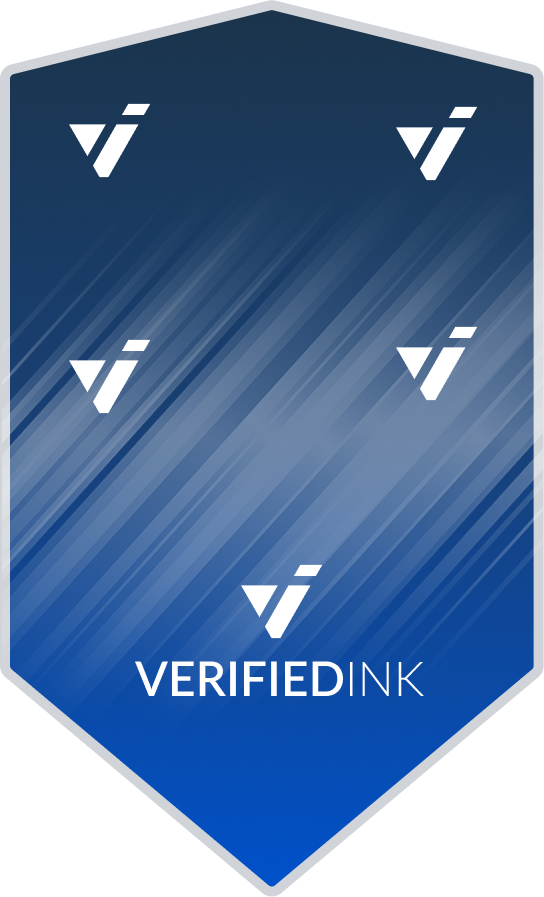
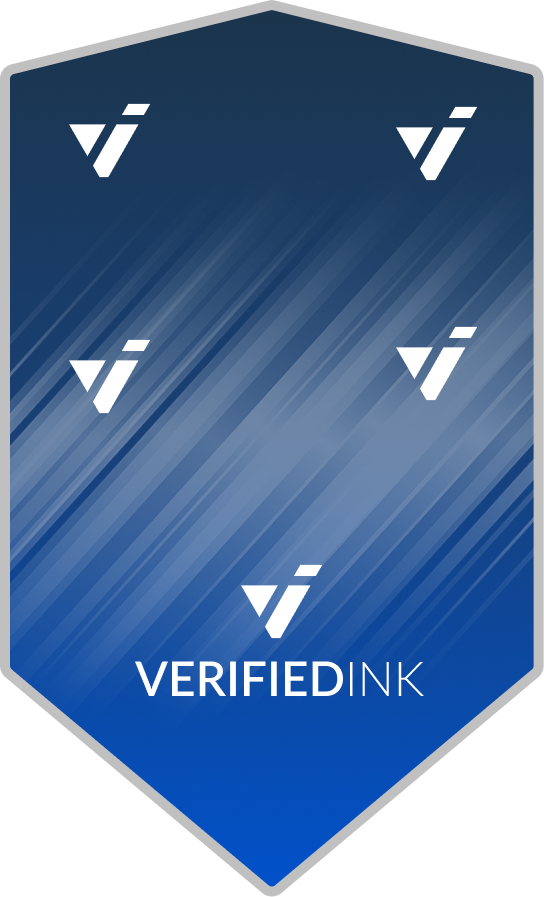
Generic transfer + new card

diff --git a/pages/api/marketplace/genericTransfer.ts b/pages/api/marketplace/genericTransfer.ts
@@ -1,0 +1,108 @@
+import { cancel, cancelOrder, transferViaCreditCard } from "@/mint/marketplace";
+import generateKeypair, { getKeypair } from "@/mint/mint";
+import { sleep } from "@/mint/utils/various";
+import { supabase } from "@/supabase/supabase-admin";
+import CreditCardSale from "@/types/CreditCardSale";
+import * as web3 from "@solana/web3.js";
+import base58 from "bs58";
+
+import { NextApiRequest, NextApiResponse } from "next";
+
+export default async function handler(
+    req: NextApiRequest,
+    res: NextApiResponse
+) {
+
+    const { user } = await supabase.auth.api.getUserByCookie(req);
+    let { from_user_id, to_user_id, mint, to_user_publicKey } = req.body;
+    let authorized = false;
+
+    // Uncomment to activate
+    // if(user){
+
+    //     const { data: admin_data, error: admin_error} = await supabase.from('user_details').select('role').match({user_id: user.id}).maybeSingle();
+
+    //     if(admin_data && admin_data.role === 'admin'){
+    //         authorized = true;
+    //     }
+    //     else
+    //     {
+    //        return res.status(500).json({error: "Not authorized"});
+            
+    //     }
+    // }
+    // else {
+    //     return res.status(500).json({error: "Not logged in"});
+        
+    // }
+
+
+    if (authorized) {
+        const verifiedSolSvcKey = process.env.VERIFIED_INK_SOL_SERVICE_KEY!;
+        const svcKeypair = await web3.Keypair.fromSecretKey(
+            base58.decode(verifiedSolSvcKey)
+        );
+
+        console.log("Attempting to transfer nft to new owner");
+
+        const from_keypair = (await getKeypair(from_user_id)) as web3.Keypair;
+        console.log("got from_keypair");
+
+
+        let to_keypair, to_publicKey
+        if (to_user_publicKey) {
+            to_publicKey = to_user_publicKey;
+        } 
+        else {
+            try {
+                to_keypair = (await getKeypair(to_user_id)) as web3.Keypair;
+                to_publicKey = to_keypair.publicKey.toBase58();
+                console.log("got to_keypair");
+            }
+            catch (e: any) {
+                const { data } = await generateKeypair(to_user_id);
+                if (data) {
+                    to_publicKey = data.public_key
+                }
+            }
+        }
+
+        if (to_publicKey) {
+            const sendToken = await transferViaCreditCard(
+                mint,
+                0,
+                "USD",
+                from_keypair,
+                to_publicKey,
+                svcKeypair
+            )
+
+            console.log(sendToken)
+            if (sendToken.txId) {
+                console.log("successfull")
+
+                await supabase
+                    .from("nft_owner")
+                    .update([
+                        {
+                            owner_id: to_user_id,
+                        },
+                    ])
+                    .match({ mint: mint });
+
+                return res.status(200).json({ success: true, txId: sendToken.txId });
+
+
+            }
+            else {
+                return res.status(200).json({ success: false, error: "Failed to transfer" });
+            }
+        } else {
+            return res.status(200).json({ success: false, error: "Error generating public key for recipient" });
+        }
+
+    }
+    
+    return res.status(400).json({ error: "Not authorized" });
+
+}

diff --git a/pages/screenshot/qr.tsx b/pages/screenshot/qr.tsx
@@ -5,17 +5,19 @@ import { QRCode } from 'react-qrcode-logo';
 
 const Wrapper = styled.div`
   // background: white !important;
-  margin: 0 !important;
-  padding: 0 !important;
+  background: #c0c0c0 !important;
+  margin: 0px !important;
+  padding: 40px !important;
   position: relative;
-  width: 545.81px;
-  height: 900px;
+  width: 626px;
+  height: 980px;
 
   #react-qrcode-logo {
-    position: absolute;
+    position: relative;
     top: 377px;
     left: 168px;
     opacity: 0.75;
+    backdrop-filter: blur(12px) brightness(0.85);
   }
 
   .target {
@@ -24,19 +26,22 @@ const Wrapper = styled.div`
   }
 
   .text{
-    position: absolute;
+    position: relative;
     top: 590px;
     left: 240px;
     opacity: 0;
   }
   .id{
     position: absolute;
-    top: 770px;
-    left: 380px;
+    top: 813px;
+    left: 416px;
     opacity: 0.7;
     transform-origin: top left;
     transform: rotate(-40deg);
+    // backdrop-filter: blur(12px);
+    
   }
+
 
 `;
 
@@ -49,15 +54,20 @@ const Screenshot: React.FC = () => {
     };
   }, []);
   const router = useRouter();
-  const { id } = router.query;
-  
+  const { id, back } = router.query;
+
+
+
   return (
 
     <Wrapper id="card">
-      <img className="target" src="/ar/source/target-front.png"></img>
-      <QRCode size={200} bgColor="transparent" fgColor="white" value={`https://verifiedink.us/ar?ar_id=${id}`} qrStyle="dots"/>
+      <img className="target" src={back ? '/ar/source/target-back.png' : '/ar/source/target-front.png'}></img>
+      {back ? null :
+        <QRCode size={200} bgColor="transparent" fgColor="white" value={`https://verifiedink.us/ar?ar_id=${id}`} qrStyle="dots" />
+      }
       <text className="text">Scan Me</text>
-      <text className="id">No. {id}</text>
+      {back ? null : <text className="id">No. {id}</text>}
+            
     </Wrapper>
   );
 };

diff --git a/components/Components/arviewer.js b/components/Components/arviewer.js
@@ -76,7 +76,6 @@ export default class ARViewer extends React.Component {
                         <a-entity mindar-image-target="targetIndex: 1">
                             <a-video src="#card-video" autoPlay webkit-playsinline="true" muted playsInline
                                 loop={true} width={this.props.width} height="1" position="0 0 0"></a-video>
-                                {/* // loop={true} position="0 0 0"></a-video> */}
                             <a-entity obj-model="obj: #mask;" rotation="0 -90 0" position="0 0 0.001" cloak></a-entity>
                             <a-image id="play_image" width="0.2" height="0.2" position="0 0.05 0.01" src="ar/images/play.png" />
                         </a-entity>

diff --git a/pages/api/print-qr.ts b/pages/api/print-qr.ts
@@ -8,7 +8,7 @@ export default async function handler(req: NextApiRequest, res: NextApiResponse)
     // const page = await browser.newPage({
     //     viewport: {width: 1000,height: 1000}
     // })
-    // for (let i = 1; i < 501; i++) {
+    // for (let i = 651; i < 1001; i++) {
     //     await page.goto(`http://localhost:3000/screenshot/qr?id=${i}`)
     //     await page.locator('id=card').screenshot({path: `qr/${i}.png`, omitBackground: true})
     // }
